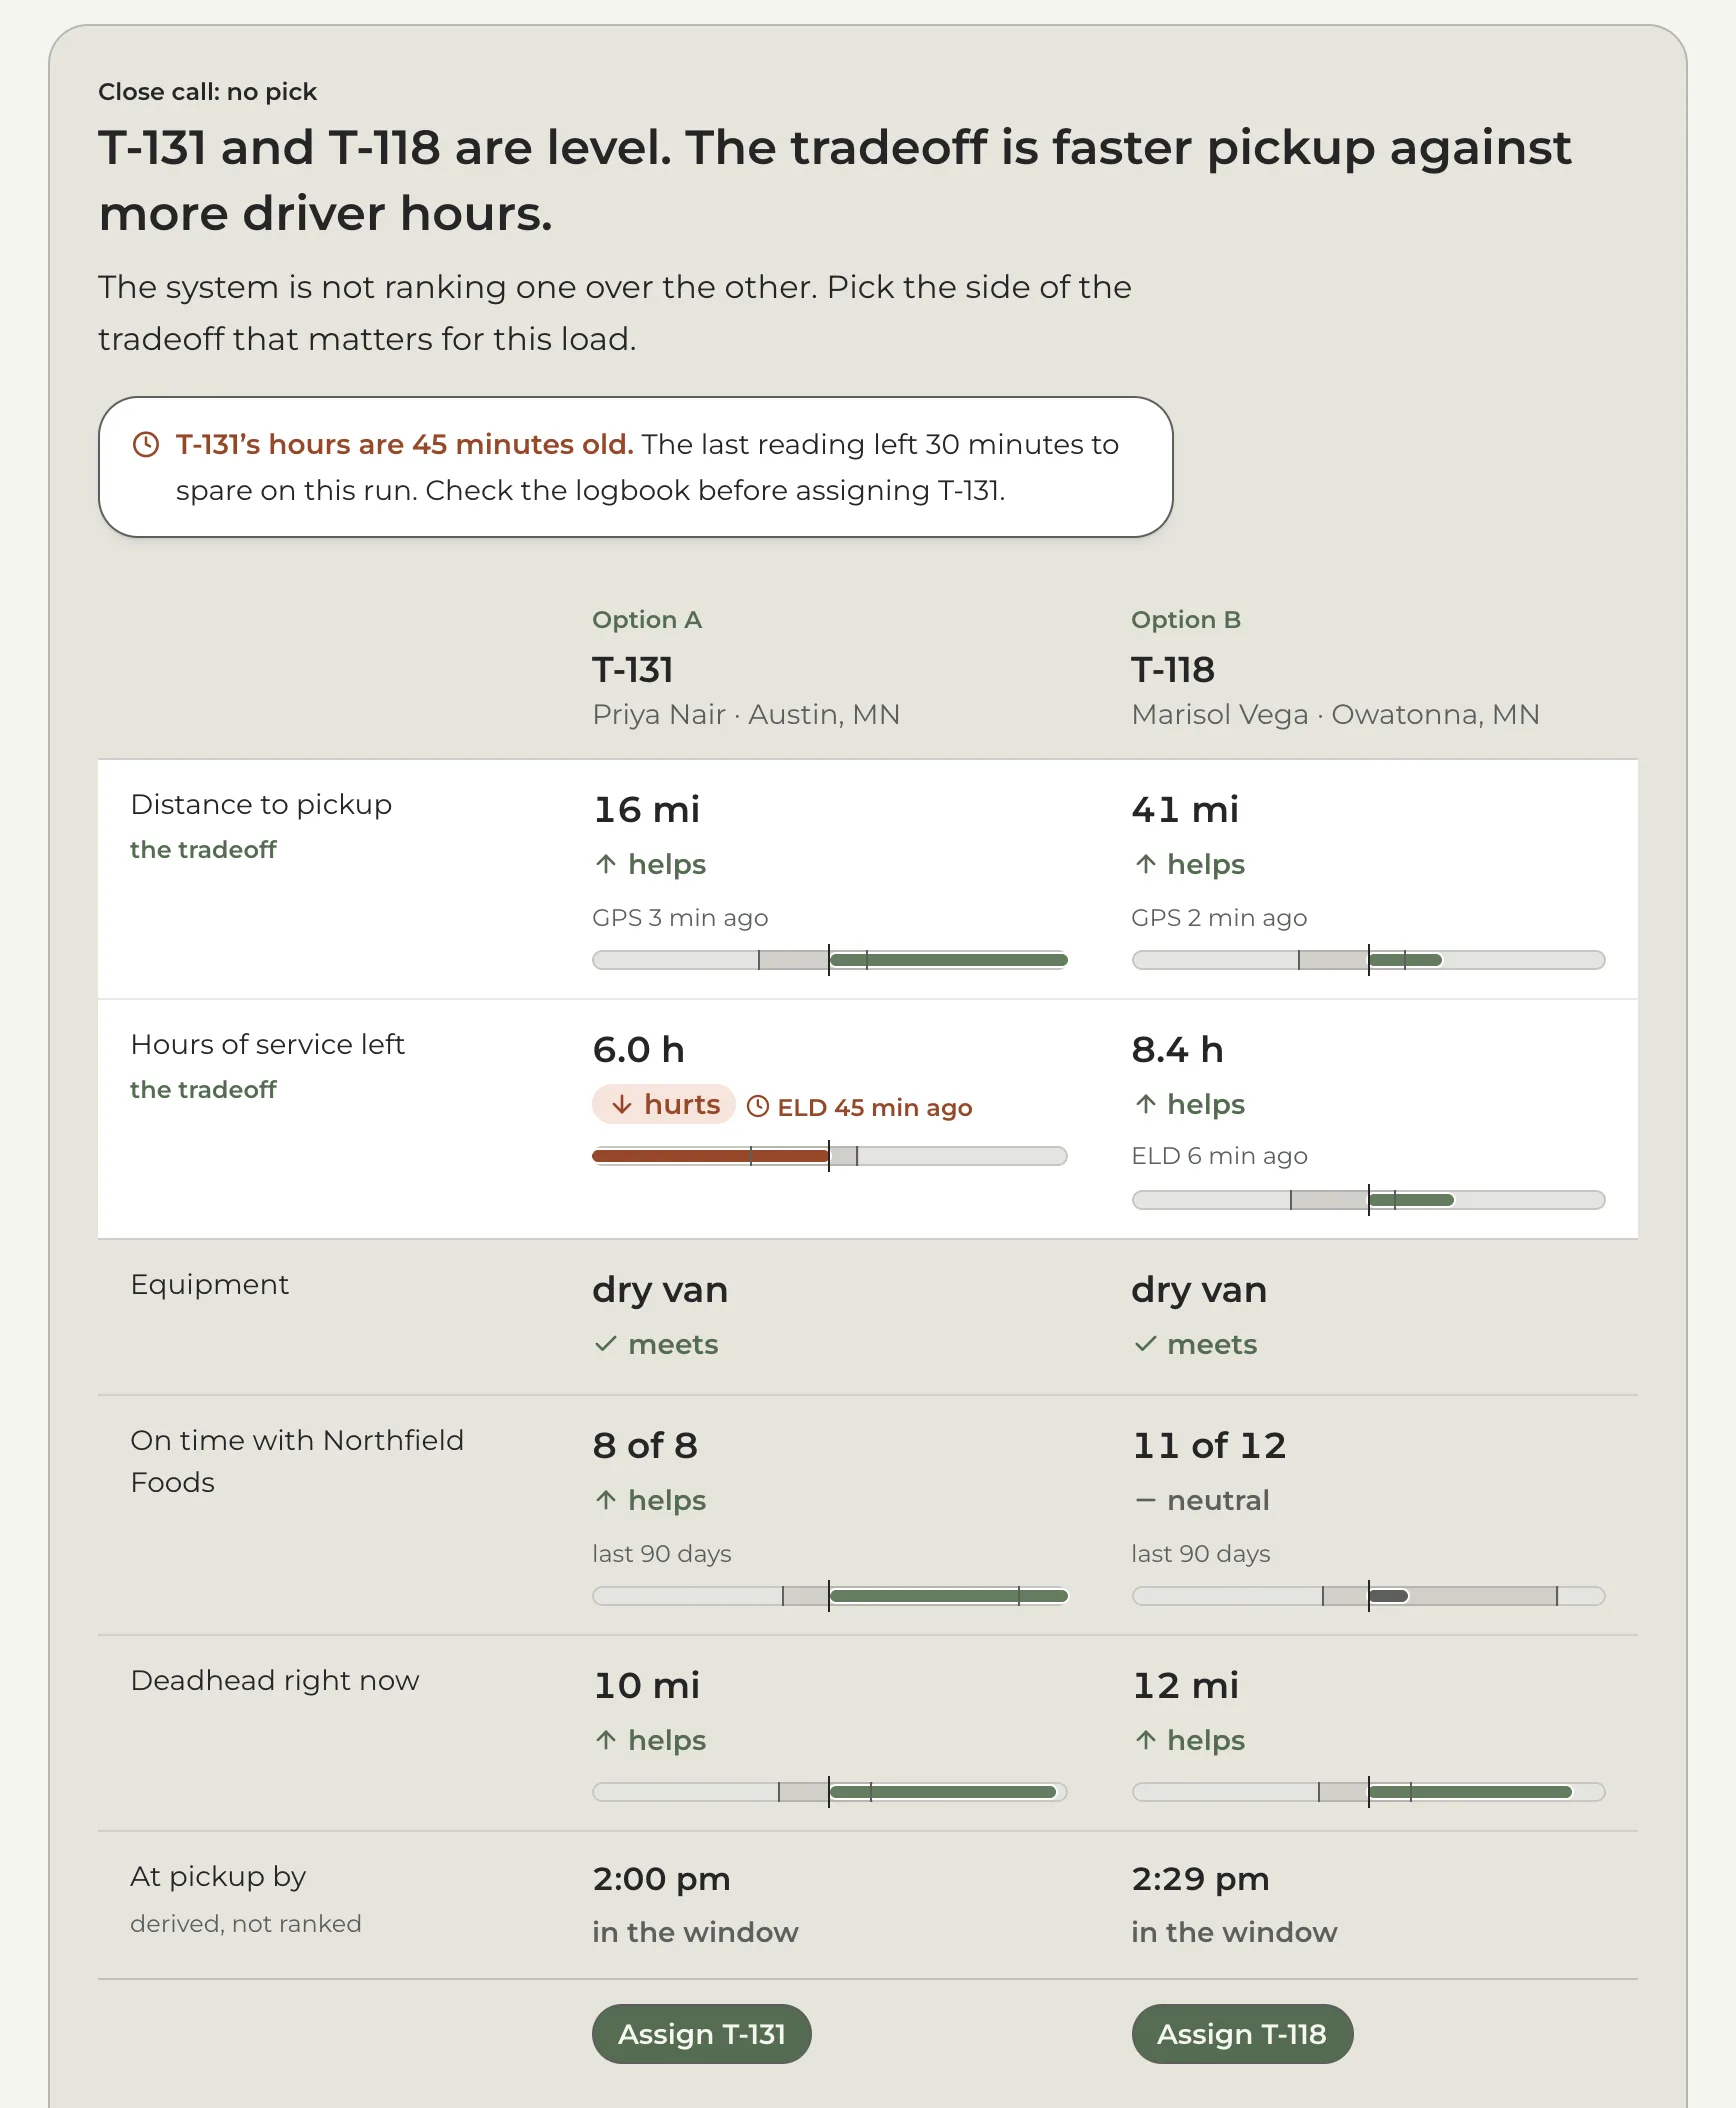
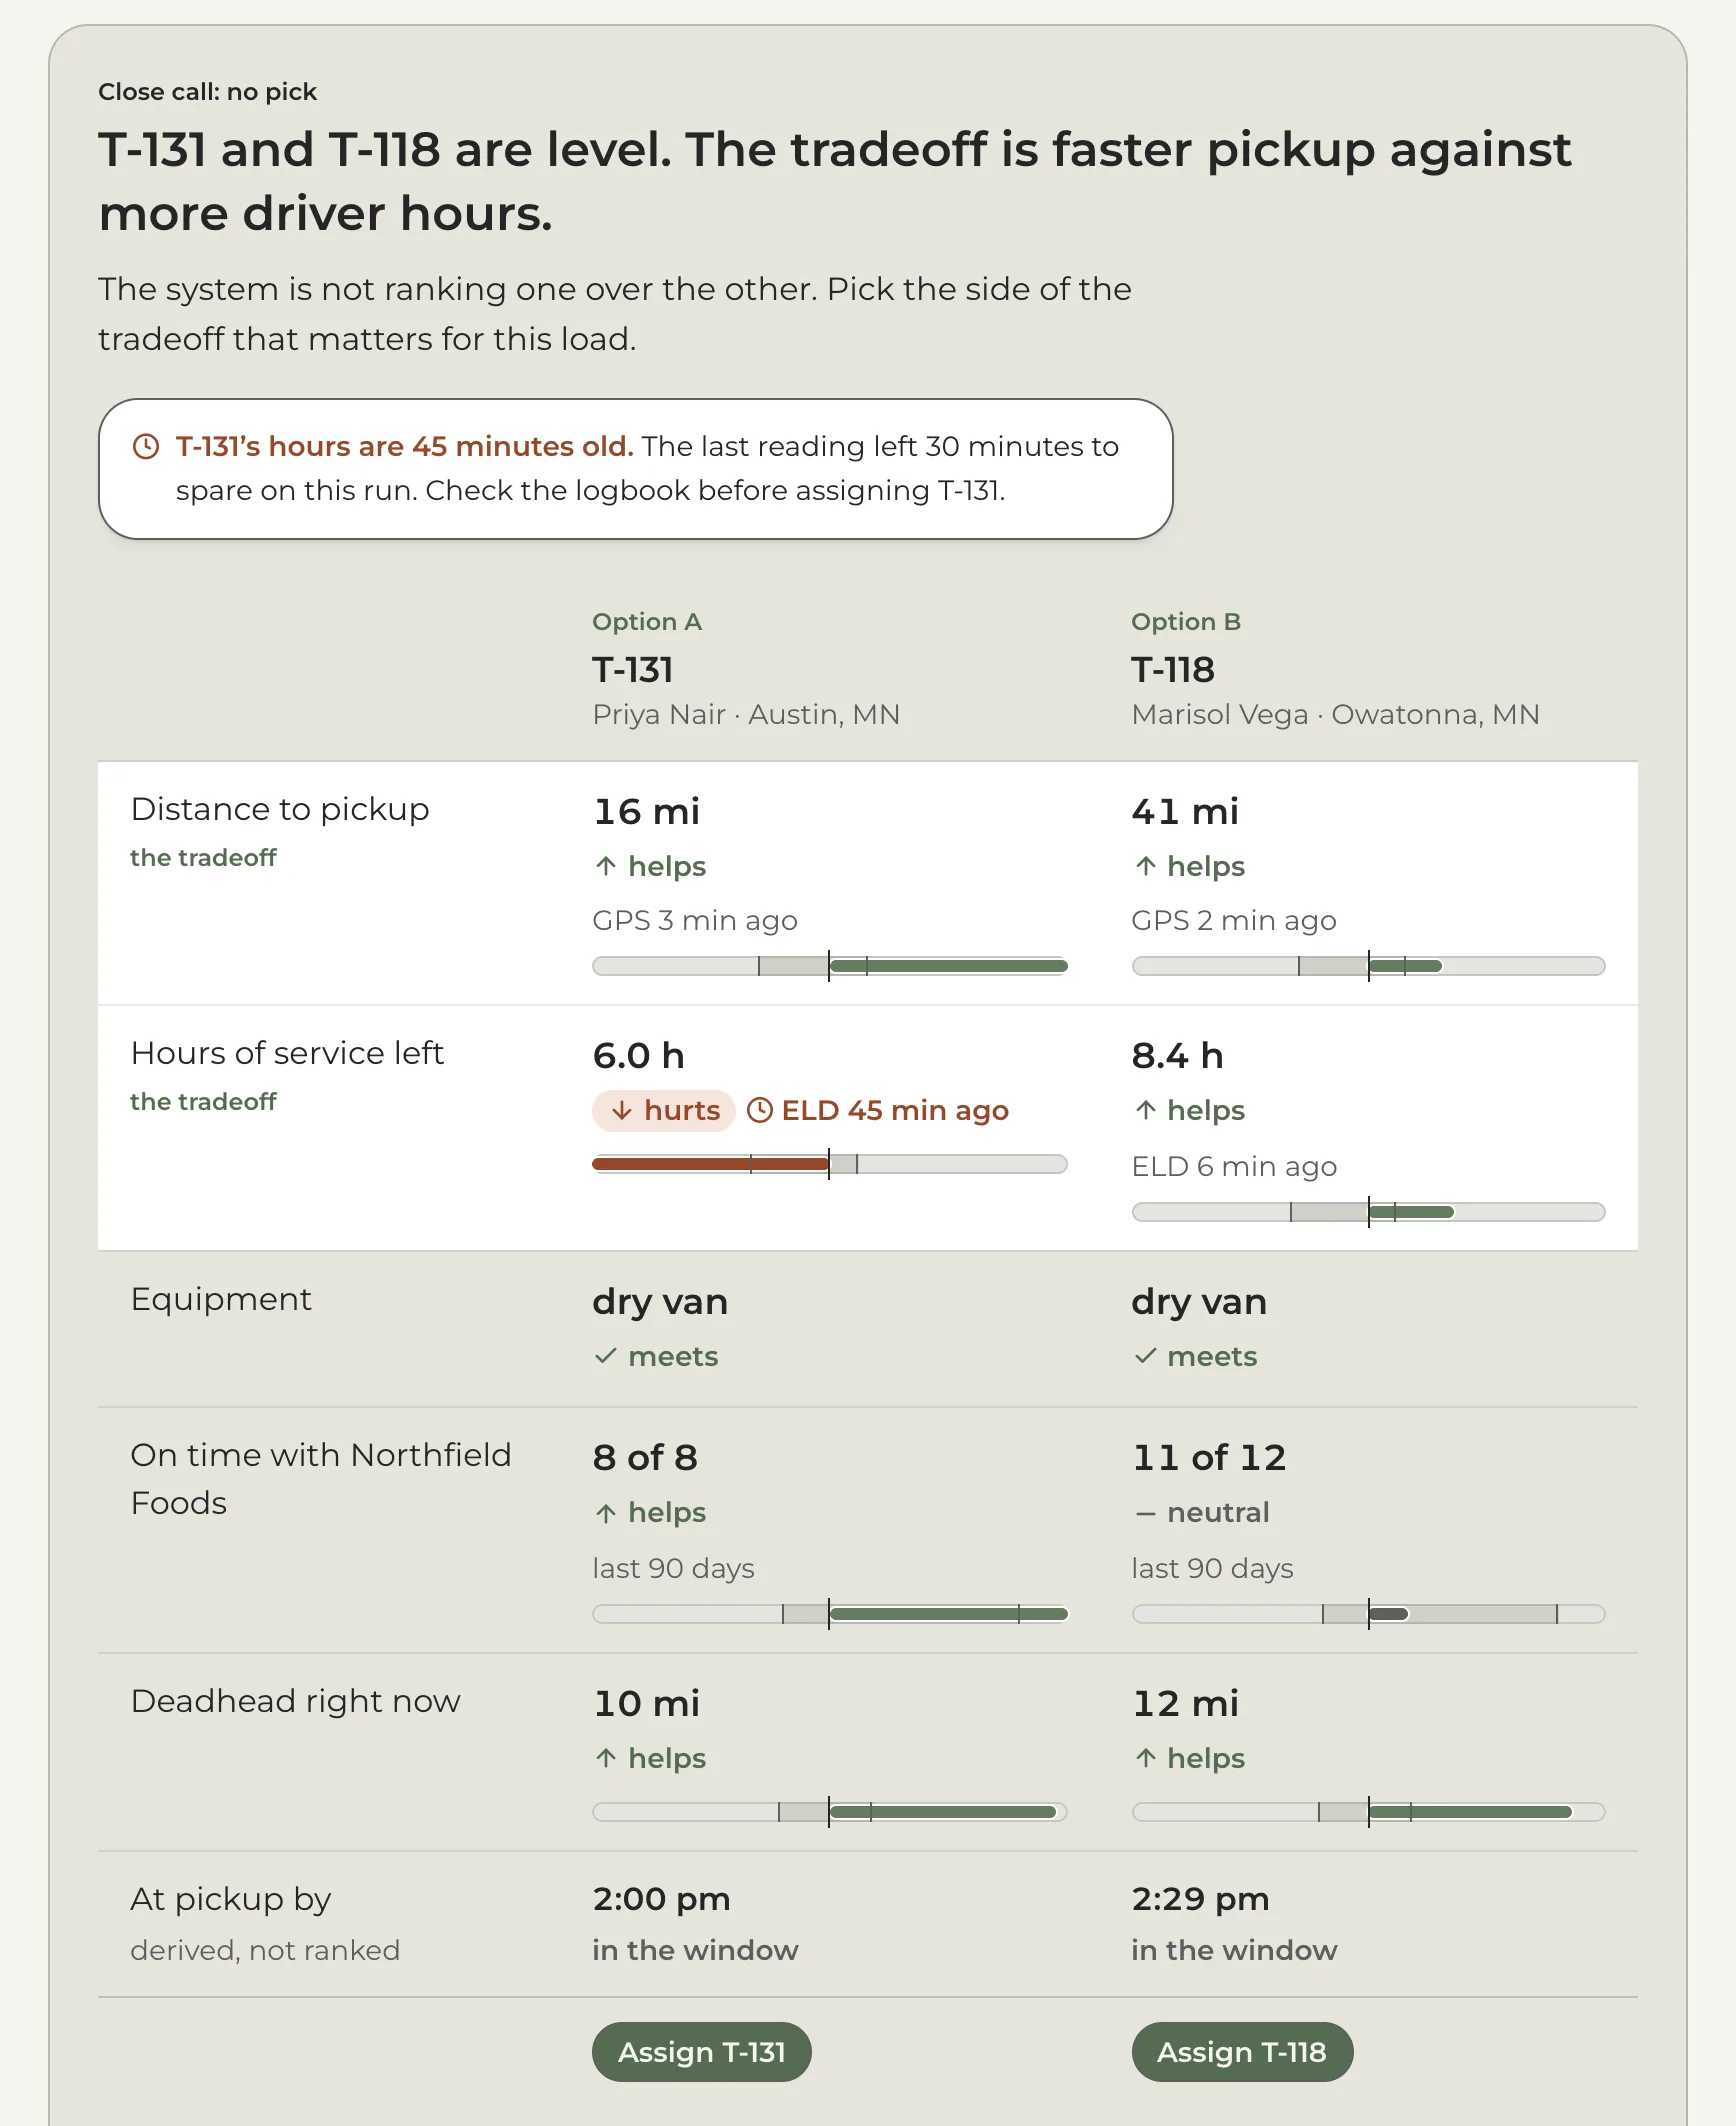
The cockpit's factor rows are set for a cab, not a laptop (#266)
"Distance to pickup" reads as faint and it is not: .ck-factor-name is
charcoal on white at 15.33:1, the highest-contrast text on the card.
What made it recede is that it was set two rungs under the thing it
names -- 14px regular beside an 18px semibold number.

The census note above .ck-factor-value fixed half of this once already,
by raising the five figures so the card had a scan layer at all. What
it left small is the line saying WHICH figure this is, and a dispatcher
who does not know the five factors by heart has to read that line
before the number means anything. --text-base, on both surfaces: the
evidence card and the comparison, which is where a close call is
actually decided.

The 12px supporting run goes to --text-sm with it. The freshness stamp
is the one the prototype most wants caught -- the whole argument of the
screen is that a figure comes with how old it is -- and it was the
smallest thing on the card at 6.47:1, which is fine on a laptop and
thin through glare at arm's length. The bar key and the two footnotes
follow it: a reader who needs the key is by definition the one who
cannot yet read the picture without it.

The rungs are 16/18/14 now, and weight still separates them: the value
and the verdict are 600 against the name's 400. Regular rather than
medium on purpose -- a half-step of weight is the first distinction
glare flattens, and spending it would leave the row with size alone.
[…]

diff --git a/prototype/dispatch-cockpit.css b/prototype/dispatch-cockpit.css
@@ -1528,8 +1528,25 @@ html[data-embed] .ck { border-radius: 0; }
   padding: var(--space-xs) 0;
   border-bottom: 1px solid var(--rule-hairline);
 }
+/* THE NAME IS READ, NOT SCANNED, AND IT IS READ IN A CAB. The census below
+   fixed the card's scan layer by raising the five figures, which was the
+   right half of the problem: the figures now carry the card. What it left
+   at --text-sm is the line that says WHICH figure this is, and a dispatcher
+   who does not already know the five factors by heart has to read that line
+   before the number under it means anything.
+
+   14px regular beside an 18px semibold number reads as faint even at
+   15.33:1, which is what this is -- the highest-contrast text on the card,
+   charcoal on white. Nothing here is dim; the label was simply set two rungs
+   under the thing it names. --text-base puts it at reading size.
+
+   THE RUNGS STILL SEPARATE, BECAUSE WEIGHT IS DOING THE WORK. 16 for the
+   name, 18 for the value, 14 for helps or hurts -- and the value is 600
+   against the name's 400, which is the same way the row already tells the
+   verdict word apart from the name at a shared 14. A fourth rung bought by
+   keeping the name small is a hierarchy that costs the reader the label. */
 .ck .ck-factor-name {
-  font-size: var(--text-sm);
+  font-size: var(--text-base);
   line-height: var(--leading-ui);
   color: var(--color-charcoal);
 }
@@ -1594,10 +1611,17 @@ html[data-embed] .ck { border-radius: 0; }
    than a chip on the value: the value is still the value, and what has
    changed is how far it can be trusted. Caution-text on white is 6.45, on
    muted-light 5.09; the name cell is 1fr and the age wraps inside it. */
+/* --text-sm, not --text-xs. The whole argument of this screen is that a
+   figure comes with how old it is, and the stale case is the one decision
+   the prototype most wants a dispatcher to catch -- so the line carrying it
+   was the smallest thing on the card. 12px at 6.47:1 is fine on a laptop
+   and thin through glare at arm's length, which is where this interface is
+   pretending to be used. It is still the quiet line: a rung under the name,
+   muted rather than charcoal, and second on its own row. */
 .ck .ck-factor-age {
   display: block;
   margin-top: var(--space-2xs);
-  font-size: var(--text-xs);
+  font-size: var(--text-sm);
   font-weight: var(--weight-regular);
   line-height: var(--leading-ui);
   color: var(--color-muted-gray);
@@ -1707,12 +1731,15 @@ html[data-embed] .ck { border-radius: 0; }
    breakpoint, grid-row for the place it takes in a factor row -- and a flex
    parent ignores both, so the key needs no counter-declaration that would
    have to be kept in step with the factor list's own. */
+/* --text-sm with the rest of the supporting run: the key is the only thing
+   on the card that explains what the bars MEAN, so a reader who needs it is
+   by definition the one who cannot yet read the picture without it. */
 .ck .ck-factor-key {
   margin: var(--space-md) 0 0;
   padding: 0;
   list-style: none;
   max-width: var(--measure);
-  font-size: var(--text-xs);
+  font-size: var(--text-sm);
   line-height: var(--leading-ui);
   color: var(--color-muted-gray);
 }
@@ -1743,9 +1770,11 @@ html[data-embed] .ck { border-radius: 0; }
      from 4px to 10px, and this arithmetic followed it without an edit. */
   margin-top: calc((1lh - 10px) / 2);
 }
+/* --text-sm, with the key above it -- one sentence qualifying the whole
+   picture, and the last place to set it at the floor. */
 .ck .ck-factor-note {
   margin: var(--space-xs) 0 0;
-  font-size: var(--text-xs);
+  font-size: var(--text-sm);
   line-height: var(--leading-ui);
   color: var(--color-muted-gray);
 }
@@ -2646,9 +2675,12 @@ html[data-embed] .ck { border-radius: 0; }
 
 /* The factor, as the row's head. */
 .ck .ck-vs-factor { font-weight: var(--weight-regular); }
+/* --text-base, with .ck-factor-name and for its reason: this is the same
+   label on the other surface, and the comparison is the one a close call is
+   actually decided on. Two sizes for one job would be the worse answer. */
 .ck .ck-vs-factor-name {
   display: block;
-  font-size: var(--text-sm);
+  font-size: var(--text-base);
   line-height: var(--leading-ui);
   color: var(--color-charcoal);
 }
@@ -2660,10 +2692,12 @@ html[data-embed] .ck { border-radius: 0; }
   line-height: var(--leading-ui);
   color: var(--color-accent-text);
 }
+/* --text-sm. "derived, not ranked" is the disclaimer on a row a dispatcher
+   may otherwise read as a factor, which makes it the wrong line to shrink. */
 .ck .ck-vs-note {
   display: block;
   margin-top: var(--space-2xs);
-  font-size: var(--text-xs);
+  font-size: var(--text-sm);
   line-height: var(--leading-ui);
   color: var(--color-muted-gray);
 }

diff --git a/prototype/dispatch-cockpit.html b/prototype/dispatch-cockpit.html
@@ -106,7 +106,7 @@
   <link rel="stylesheet" href="../type.css?v=5" />
   <link rel="stylesheet" href="../style.css?v=20260921b" />
   <link rel="stylesheet" href="../site-nav.css?v=20260918b" />
-  <link rel="stylesheet" href="dispatch-cockpit.css?v=45" />
+  <link rel="stylesheet" href="dispatch-cockpit.css?v=46" />
   <link rel="stylesheet" href="../read-aloud.css?v=2" />
   <!-- EMBED MODE, and why it is a flag on this page rather than a page of
        its own. The homepage's prototype card opens the cockpit in a tablet
@@ -298,9 +298,9 @@
           </div>
           <figure class="ckw-hero-figure">
             <div class="ckw-scroll">
-              <img src="../img/cockpit/close-call.webp?v=17" width="1736" height="2108" alt="The cockpit showing a close call: a heading reading &ldquo;T-131 and T-118 are level. The tradeoff is faster pickup against more driver hours&rdquo;, under it a note raised on white saying T-131&rsquo;s hours are 45 minutes old, and then a comparison table with Option A and Option B as its two columns. The two rows that separate them, distance and driver hours, are raised on white and marked &ldquo;the tradeoff&rdquo;; the remaining factors follow, then a derived row giving the time each would reach the pickup, then an Assign button under each option." />
+              <img src="../img/cockpit/close-call.webp?v=18" width="1736" height="2126" alt="The cockpit showing a close call: a heading reading &ldquo;T-131 and T-118 are level. The tradeoff is faster pickup against more driver hours&rdquo;, under it a note raised on white saying T-131&rsquo;s hours are 45 minutes old, and then a comparison table with Option A and Option B as its two columns. The two rows that separate them, distance and driver hours, are raised on white and marked &ldquo;the tradeoff&rdquo;; the remaining factors follow, then a derived row giving the time each would reach the pickup, then an Assign button under each option." />
             </div>
-            <figcaption><strong>When the call is close, the system says so.</strong> One comparison, the two rows that separate the trucks first, the one figure it cannot vouch for marked, and no invented winner. <a class="ckw-full" href="../img/cockpit/close-call.webp?v=17">Full size &#8599;<span class="visually-hidden">, the close call</span></a></figcaption>
+            <figcaption><strong>When the call is close, the system says so.</strong> One comparison, the two rows that separate the trucks first, the one figure it cannot vouch for marked, and no invented winner. <a class="ckw-full" href="../img/cockpit/close-call.webp?v=18">Full size &#8599;<span class="visually-hidden">, the close call</span></a></figcaption>
           </figure>
         </div>
         <!-- Under the pair rather than inside the copy column: it is about the

diff --git a/index.html b/index.html
@@ -601,7 +601,7 @@
                embed. -->
           <div class="case-card case-card--prototype reveal">
             <a class="case-thumb" href="prototype/dispatch-cockpit.html" aria-label="Read the case study: An AI truck recommendation the dispatcher can check and overrule">
-              <img decoding="async" loading="lazy" src="img/cockpit/slide-close-call.webp?v=18" alt="The cockpit on a close call: a note raised on white reading &ldquo;T-131&rsquo;s hours are 45 minutes old. The last reading left 30 minutes to spare on this run. Check the logbook before assigning T-131.&rdquo;, and under it a comparison with Option A, T-131, Priya Nair, against Option B, T-118, Marisol Vega. The two rows that separate them are raised on white and marked &ldquo;the tradeoff&rdquo;: distance to pickup, 16 miles against 41, and hours of service left, 6.0 against 8.4 with T-131&rsquo;s reading marked 45 minutes old. A third row begins at the bottom edge." width="1360" height="1020"/>
+              <img decoding="async" loading="lazy" src="img/cockpit/slide-close-call.webp?v=19" alt="The cockpit on a close call: a note raised on white reading &ldquo;T-131&rsquo;s hours are 45 minutes old. The last reading left 30 minutes to spare on this run. Check the logbook before assigning T-131.&rdquo;, and under it a comparison with Option A, T-131, Priya Nair, against Option B, T-118, Marisol Vega. The two rows that separate them are raised on white and marked &ldquo;the tradeoff&rdquo;: distance to pickup, 16 miles against 41, and hours of service left, 6.0 against 8.4 with T-131&rsquo;s reading marked 45 minutes old. A third row begins at the bottom edge." width="1360" height="1020"/>
             </a>
             <div class="case-card-body">
               <h3>An AI truck recommendation the dispatcher can check and overrule</h3>
